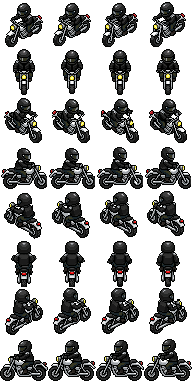
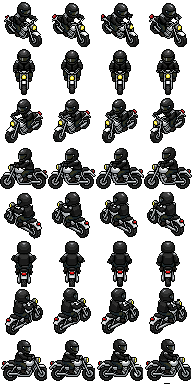
Oven Mitt power-up, givers show what they hold, 10 m frisbee, a wilder hot rod, motorcycle facing the right way
- Oven Mitt (town and races): in town it snatches the pizza a rider within
  10 m is delivering (you or the rivals); in a race, their power-up.
  New PixelLab icon (art/scenery_icon_mitt.png).
- Power-up givers hold up the one they'll hand over (its icon over their
  head); when someone takes it they hold up a different one at random.
- Pizza Frisbee reaches 10 m.
- The racing hot rod weaves about, swings over the centre line round you
  when you're out in its lane, and honks and swerves at the kerb: it can
  knock you flat now. It keeps to your road rolling up (no start when
  you've only just turned onto it) and to its own when it drives off.
  Hot rods in the traffic are the only cars that pass you on the wrong
  side of the road instead of waiting.
- The black motorcycle's down-left / down-right and left / right views
  were swapped (it drove sideways); turn clips rebuilt to match.

diff --git a/tools/sprite_viewer/manifest.js b/tools/sprite_viewer/manifest.js
@@ -893,6 +893,7 @@ window.SPRITES = [
 ["scenery_icon_gift",32,32],
 ["scenery_icon_portal",32,32],
 ["scenery_icon_roller",32,32],
+["scenery_icon_mitt",32,32],
 ["scenery_icon_socks",32,32],
 ["scenery_icon_walkie",32,32],
 ["scenery_icon_wrench",32,32],

diff --git a/README.md b/README.md
@@ -161,7 +161,7 @@ https://github.com/hermeslohin/mt-crankmore/releases
 * **Bike theft**: now and then someone runs out of a bike shop pushing a brand-new road bike, swings a leg over and pedals off while the owner bursts out yelling "STOP THIEF! That's a $3,000 bike!". Average 130% of your FTP to run him down ($300): he crashes off it, sits there with his hands up while the owner cheers, and the police take him away.
 * **Santa**: on a winter night, every few hours, Santa's sleigh flies over and drops a present on a parachute just ahead of you. Ride over it: it's a Hoofy Bike (a little better than the Rusty Trash Bike; if you've got one already, $100). **My bikes** in the pause menu lists every bike you own and lets you pick which one to ride.
 * **Mountain rescue**: now and then a ski patroller at the bottom of a chairlift calls for help. Ride over and press A to take a medical kit up Mt. Crankmore on your own (no rivals, no entry fee) to an injured skier a quarter of the way up, marked with a red cross on the WEEHOO's profile. Reaching them pays $250 and brings you back to town where you were.
-* **Paid challenges**: now and then the town asks for a real effort, and a panel under the pizza orders shows the watts it takes and how you're doing. A robber runs out of a shop or the Crankmore Savings Bank, a cop bursts out after him yelling "STOP THAT THIEF!", and he's off on a bike: hold 110% of your FTP to run him down ($150). A woman's dog slips its lead: 80% of FTP catches it ($50). A hot rod rolls up beside you and challenges you to a line 110 m up the road: beat it at 120% of FTP ($300). The quarry always goes as fast as you would at that share of your FTP, so it's about the watts, not the gears.
+* **Paid challenges**: now and then the town asks for a real effort, and a panel under the pizza orders shows the watts it takes and how you're doing. A robber runs out of a shop or the Crankmore Savings Bank, a cop bursts out after him yelling "STOP THAT THIEF!", and he's off on a bike: hold 110% of your FTP to run him down ($150). A woman's dog slips its lead: 80% of FTP catches it ($50). A hot rod rolls up beside you and challenges you to a line 110 m up the road: beat it at 120% of FTP ($300). It drives like a maniac, weaving all over its lane, and now and then it honks and swerves at the kerb: get out of the way (brake, or pull out into the road, and it swings round you over the centre line) or it knocks you flat for 3 s. Hot rods in the traffic are the only cars that won't wait behind you: they swing out over the centre line to get by when nothing's coming. The quarry always goes as fast as you would at that share of your FTP, so it's about the watts, not the gears.
 * **More challenges**: pizza rushes (a party orders five pizzas for five stops; average 80% of your FTP over the lot for a $120 bonus, with a progress bar), hill sprints (a START line lights up at the foot of a climb near you and a FINISH at the top; beat the time you'd do at 105% of FTP for $60), a kid on a BMX who wants a race to a line 150 m away (60% of FTP wins $20), and every half hour or so seagulls after the pizza on your rack (they start 15 m back: hold 90% of FTP to get 40 m clear, or keep them off for 90 seconds, or lose the order).
 * **Town happenings**: every five minutes or so: a fun run on a closed stretch of road (cars wait at the barriers, you can ride through), the giant pizza balloon floated round the plaza, a farmers market, a car-wash fundraiser, a wedding at the town hall, a flash mob, cows loose in the street, a hot-air balloon at dawn, movie night at dusk, queues outside Pixel Palace and Rewind Video, a pizza-eating contest. In season: snowball fights (duck!), sledding and the Christmas tree lighting; Easter egg hunts ($5 an egg) and ducklings crossing; beach volleyball, a fishing contest and a lemonade stand; trick-or-treaters, a haunted hayride, the harvest festival and kids in zombie costumes lurching after you (50% of FTP gets you away; get caught and they take $10 of candy money). And rarely, chaos: a power cut at night, a runaway shopping cart coming at you, a burst hydrant flooding the street.
 * **Chairlifts and skiers**: three chairlifts climb from the hills by the gondola up Mt. Crankmore, towers marching up cleared lift lines, chairs full of riders going up and empty ones coming down. In winter about fifty skiers carve down the town's hills, and up the mountain in the races up to three chairlifts run through the snow, with forty skiers and snowboarders and two ski schools.
@@ -182,9 +182,9 @@ https://github.com/hermeslohin/mt-crankmore/releases
   * The climb is a random run of climbs, steep ramps (up to 12%), flats, descents and fast drops (down to -9%) in random lengths, scaled so each course still gains about the same height (the same course seed always gives the same mountain). Above a wandering snow line there is snow in every season: white ground and road, snowy firs and rocks, drifting flakes. A few legs run through tunnels (stone portals; the mound turns see-through while you are inside, and dark with lamps). Yellow warning boards 100 m before every hairpin ("HAIRPIN 3 of 9" with a U-turn arrow), tunnel, steep ramp, fast drop and the snow line, chevron boards round the outside of each hairpin, toasts as you approach each one, and the Weehoo elevation profile marks hairpins (yellow ticks), tunnels (dark bars) and snow (white).
   * **Jumps** on the descents (hit one above ~30 km/h for BIG AIR), **fallen trees** you hop (they scrub some speed), and **creek fords** that drag you down while you splash through. Yellow warning signs come up before each one, and they're marked on the WEEHOO profile (blue creeks, orange jumps, brown logs).
   * **Wildlife**: deer, foxes and squirrels dash across the road in front of you, rabbits bolt, moose wade near the creeks, goats and marmots watch from the rocks, eagles circle overhead, and bears give chase: one rears up and roars as you ride by, then comes after you from where it stood, as fast as you'd go at 110% of your FTP, for about 20 seconds. Hold 110% or it catches you and swipes you off your bike (pull away as it swings and it misses).
-* **Power-ups**: about 1 in 8 townsfolk hold up a gift box, and spectators along the race course do too. Ride past with empty hands and they toss you a power-up. You carry one at a time; it shows on the WEEHOO, and **Y** (or Space) uses it. The rivals grab and use them too.
+* **Power-ups**: about 1 in 8 townsfolk hold up a gift box, and spectators along the race course do too. Each holds up the one they'll hand over (its icon floats over their head); ride past with empty hands and they toss it to you, then hold up a different one at random for whoever comes next. You carry one at a time; it shows on the WEEHOO, and **Y** (or Space) uses it. The rivals grab and use them too.
   * *Town only*: **Pepperoni Portal** warps you to the nearest pizza shop with a pizza waiting. **Bike Wrench** fixes your bike to full HP. **Walkie Talkie** summons a pizza mascot that dances in front of the nearest rival and slows them to a crawl for 12 s.
-  * *Town and races*: **Pizza Frisbee** knocks a rival within 5 m off their bike for 5 s (out of range, you keep it). **Fire Socks** make you 30% faster for 15 s. **Breadsticks** make you huge for 12 s, and anyone you ride into falls over. **Dough Roller** rolls the hills flat for 15 s: climbs feel like flat road (on the trainer too), descents still count.
+  * *Town and races*: **Pizza Frisbee** knocks a rival within 10 m off their bike for 5 s (out of range, you keep it). **Oven Mitt** snatches what the nearest rider within 10 m has: in town, the pizza they're delivering (yours to deliver now, on a fresh deadline; not while you've got one of your own, and a pizza rush's stack is too much to grab); in a race, their power-up. The rivals use it on you and each other too. **Fire Socks** make you 30% faster for 15 s. **Breadsticks** make you huge for 12 s, and anyone you ride into falls over. **Dough Roller** rolls the hills flat for 15 s: climbs feel like flat road (on the trainer too), descents still count.
 * **WEEHOO**: your bike computer in the bottom-right corner. It shows the town map (or the course profile in a race), speed, watts, money (race position in a race), grade, cadence, HP and the power-up you are carrying (or how long Fire Socks / Breadsticks have left). The LED strip along the top lights up with your power, coloured by zone relative to your FTP.
 * Progress (money, bikes, HP) is saved automatically. Start over any time with **New game** on the title screen.
 
